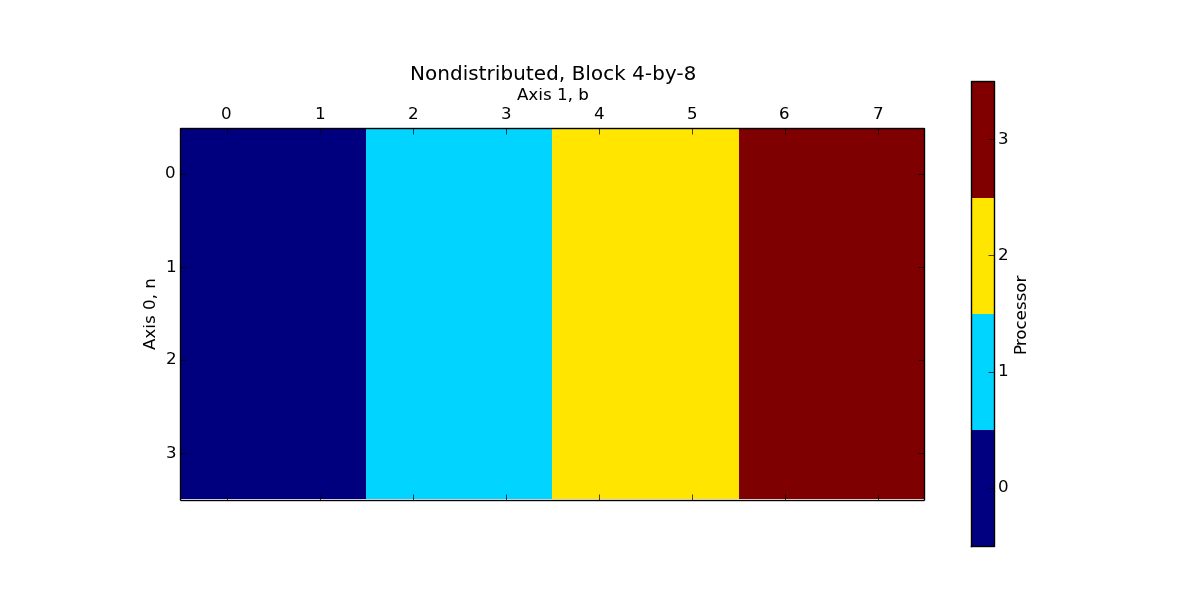
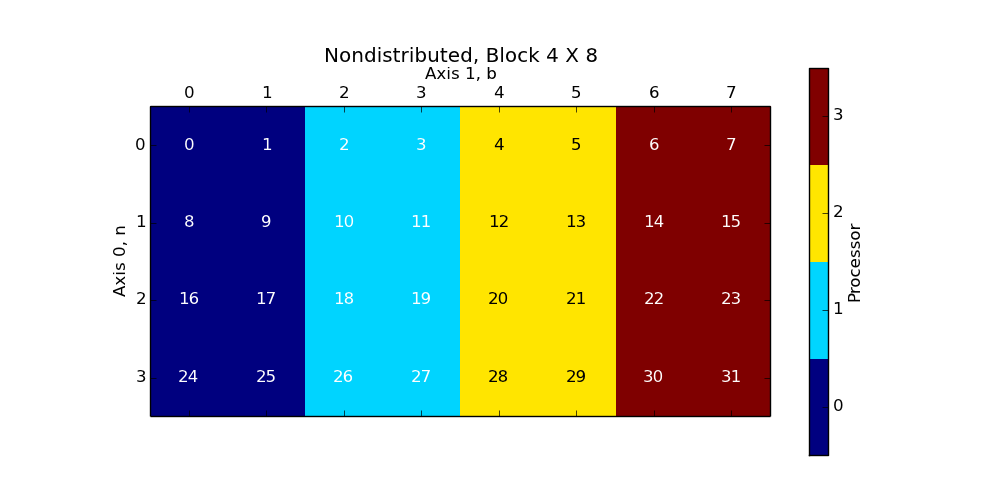
Plot tweaks.

diff --git a/examples.rst b/examples.rst
@@ -4,7 +4,7 @@ Automatically Generated Examples
 Block, Nondistributed
 `````````````````````
 
-4 X 8 array, Block, Nondistributed distribution, distributed over 4 process grid.
+4 X 8 array, Block, Nondistributed distribution, over 1 X 4 process grid.
 
 Some description of Block, Nondistributed.
 
@@ -17,14 +17,6 @@ array([[  0.,   1.,   2.,   3.,   4.,   5.,   6.,   7.],
        [  8.,   9.,  10.,  11.,  12.,  13.,  14.,  15.],
        [ 16.,  17.,  18.,  19.,  20.,  21.,  22.,  23.],
        [ 24.,  25.,  26.,  27.,  28.,  29.,  30.,  31.]])
-
-get_localarrays():
-
->>> get_localarrays()
-[[[ 0.  1.  2.  3.  4.  5.  6.  7.]],
- [[  8.   9.  10.  11.  12.  13.  14.  15.]],
- [[ 16.  17.  18.  19.  20.  21.  22.  23.]],
- [[ 24.  25.  26.  27.  28.  29.  30.  31.]]]
 
 In all processes:
 
@@ -89,7 +81,7 @@ array([[ 24.,  25.,  26.,  27.,  28.,  29.,  30.,  31.]])
 Nondistributed, Block
 `````````````````````
 
-4 X 8 array, Nondistributed, Block distribution, distributed over 4 process grid.
+4 X 8 array, Nondistributed, Block distribution, over 1 X 4 process grid.
 
 .. image:: ../images/plot_nondist_block.png
 
@@ -100,26 +92,6 @@ array([[  0.,   1.,   2.,   3.,   4.,   5.,   6.,   7.],
        [  8.,   9.,  10.,  11.,  12.,  13.,  14.,  15.],
        [ 16.,  17.,  18.,  19.,  20.,  21.,  22.,  23.],
        [ 24.,  25.,  26.,  27.,  28.,  29.,  30.,  31.]])
-
-get_localarrays():
-
->>> get_localarrays()
-[[[  0.   1.]
- [  8.   9.]
- [ 16.  17.]
- [ 24.  25.]],
- [[  2.   3.]
- [ 10.  11.]
- [ 18.  19.]
- [ 26.  27.]],
- [[  4.   5.]
- [ 12.  13.]
- [ 20.  21.]
- [ 28.  29.]],
- [[  6.   7.]
- [ 14.  15.]
- [ 22.  23.]
- [ 30.  31.]]]
 
 In all processes:
 
@@ -196,7 +168,7 @@ array([[  6.,   7.],
 Block, Block
 ````````````
 
-4 X 8 array, Block, Block distribution, distributed over 2 X 2 process grid.
+4 X 8 array, Block, Block distribution, over 2 X 2 process grid.
 
 .. image:: ../images/plot_block_block.png
 
@@ -207,18 +179,6 @@ array([[  0.,   1.,   2.,   3.,   4.,   5.,   6.,   7.],
        [  8.,   9.,  10.,  11.,  12.,  13.,  14.,  15.],
        [ 16.,  17.,  18.,  19.,  20.,  21.,  22.,  23.],
        [ 24.,  25.,  26.,  27.,  28.,  29.,  30.,  31.]])
-
-get_localarrays():
-
->>> get_localarrays()
-[[[  0.   1.   2.   3.]
- [  8.   9.  10.  11.]],
- [[  4.   5.   6.   7.]
- [ 12.  13.  14.  15.]],
- [[ 16.  17.  18.  19.]
- [ 24.  25.  26.  27.]],
- [[ 20.  21.  22.  23.]
- [ 28.  29.  30.  31.]]]
 
 In all processes:
 
@@ -307,7 +267,7 @@ array([[ 20.,  21.,  22.,  23.],
 Block, Cyclic
 `````````````
 
-4 X 8 array, Block, Cyclic distribution, distributed over 2 X 2 process grid.
+4 X 8 array, Block, Cyclic distribution, over 2 X 2 process grid.
 
 .. image:: ../images/plot_block_cyclic.png
 
@@ -318,18 +278,6 @@ array([[  0.,   1.,   2.,   3.,   4.,   5.,   6.,   7.],
        [  8.,   9.,  10.,  11.,  12.,  13.,  14.,  15.],
        [ 16.,  17.,  18.,  19.,  20.,  21.,  22.,  23.],
        [ 24.,  25.,  26.,  27.,  28.,  29.,  30.,  31.]])
-
-get_localarrays():
-
->>> get_localarrays()
-[[[  0.   2.   4.   6.]
- [  8.  10.  12.  14.]],
- [[  1.   3.   5.   7.]
- [  9.  11.  13.  15.]],
- [[ 16.  18.  20.  22.]
- [ 24.  26.  28.  30.]],
- [[ 17.  19.  21.  23.]
- [ 25.  27.  29.  31.]]]
 
 In all processes:
 
@@ -418,7 +366,7 @@ array([[ 17.,  19.,  21.,  23.],
 Cyclic, Cyclic
 ``````````````
 
-4 X 8 array, Cyclic, Cyclic distribution, distributed over 2 X 2 process grid.
+4 X 8 array, Cyclic, Cyclic distribution, over 2 X 2 process grid.
 
 .. image:: ../images/plot_cyclic_cyclic.png
 
@@ -429,18 +377,6 @@ array([[  0.,   1.,   2.,   3.,   4.,   5.,   6.,   7.],
        [  8.,   9.,  10.,  11.,  12.,  13.,  14.,  15.],
        [ 16.,  17.,  18.,  19.,  20.,  21.,  22.,  23.],
        [ 24.,  25.,  26.,  27.,  28.,  29.,  30.,  31.]])
-
-get_localarrays():
-
->>> get_localarrays()
-[[[  0.   2.   4.   6.]
- [ 16.  18.  20.  22.]],
- [[  1.   3.   5.   7.]
- [ 17.  19.  21.  23.]],
- [[  8.  10.  12.  14.]
- [ 24.  26.  28.  30.]],
- [[  9.  11.  13.  15.]
- [ 25.  27.  29.  31.]]]
 
 In all processes:
 
@@ -526,10 +462,10 @@ array([[  9.,  11.,  13.,  15.],
   'size': 8,
   'start': 1})
 
-BlockCyclic[2], BlockCyclic[2]
-``````````````````````````````
+BlockCyclic, BlockCyclic
+````````````````````````
 
-4 X 8 array, BlockCyclic[2], BlockCyclic[2] distribution, distributed over 2 X 2 process grid.
+4 X 8 array, BlockCyclic, BlockCyclic distribution, over 2 X 2 process grid.
 
 .. image:: ../images/plot_blockcyclic_blockcyclic.png
 
@@ -540,18 +476,6 @@ array([[  0.,   1.,   2.,   3.,   4.,   5.,   6.,   7.],
        [  8.,   9.,  10.,  11.,  12.,  13.,  14.,  15.],
        [ 16.,  17.,  18.,  19.,  20.,  21.,  22.,  23.],
        [ 24.,  25.,  26.,  27.,  28.,  29.,  30.,  31.]])
-
-get_localarrays():
-
->>> get_localarrays()
-[[[  0.   1.   4.   5.]
- [  8.   9.  12.  13.]],
- [[  2.   3.   6.   7.]
- [ 10.  11.  14.  15.]],
- [[ 16.  17.  20.  21.]
- [ 24.  25.  28.  29.]],
- [[ 18.  19.  22.  23.]
- [ 26.  27.  30.  31.]]]
 
 In all processes:
 
@@ -636,4 +560,144 @@ array([[ 18.,  19.,  22.,  23.],
   'proc_grid_size': 2,
   'size': 8,
   'start': 2})
+
+Unstructured
+````````````
+
+1 X 40 array, Unstructured distribution, over 1 X 4 process grid.
+
+.. image:: ../images/plot_unstructured.png
+
+The full (undistributed) array:
+
+>>> full_array
+array([  0.,   1.,   2.,   3.,   4.,   5.,   6.,   7.,   8.,   9.,  10.,
+        11.,  12.,  13.,  14.,  15.,  16.,  17.,  18.,  19.,  20.,  21.,
+        22.,  23.,  24.,  25.,  26.,  27.,  28.,  29.,  30.,  31.,  32.,
+        33.,  34.,  35.,  36.,  37.,  38.,  39.])
+
+In all processes:
+
+>>> distbuffer = local_array.__distarray__()
+>>> distbuffer.keys()
+['buffer', 'dim_data', '__version__']
+>>> distbuffer['__version__']
+'1.0.0'
+
+In process 0:
+
+>>> distbuffer['buffer']
+array([ 29.,  38.,  18.,  19.,  11.,  33.,  10.,   1.,  22.,  25.])
+>>> distbuffer['dim_data']
+({'dist_type': 'u',
+  'indices': [29, 38, 18, 19, 11, 33, 10, 1, 22, 25],
+  'proc_grid_rank': 0,
+  'proc_grid_size': 4,
+  'size': 40},)
+
+In process 1:
+
+>>> distbuffer['buffer']
+array([  5.,  15.,  34.,  12.,  16.,  24.,  23.,  39.,   6.,  36.])
+>>> distbuffer['dim_data']
+({'dist_type': 'u',
+  'indices': [5, 15, 34, 12, 16, 24, 23, 39, 6, 36],
+  'proc_grid_rank': 1,
+  'proc_grid_size': 4,
+  'size': 40},)
+
+In process 2:
+
+>>> distbuffer['buffer']
+array([  0.,   7.,  27.,   4.,  32.,  37.,  21.,  26.,   9.,  17.])
+>>> distbuffer['dim_data']
+({'dist_type': 'u',
+  'indices': [0, 7, 27, 4, 32, 37, 21, 26, 9, 17],
+  'proc_grid_rank': 2,
+  'proc_grid_size': 4,
+  'size': 40},)
+
+In process 3:
+
+>>> distbuffer['buffer']
+array([ 35.,  14.,  20.,  13.,   3.,  30.,   2.,   8.,  28.,  31.])
+>>> distbuffer['dim_data']
+({'dist_type': 'u',
+  'indices': [35, 14, 20, 13, 3, 30, 2, 8, 28, 31],
+  'proc_grid_rank': 3,
+  'proc_grid_size': 4,
+  'size': 40},)
+
+Padded
+``````
+
+1 X 20 array, Padded distribution, over 1 X 4 process grid.
+
+.. image:: ../images/plot_padded.png
+
+The full (undistributed) array:
+
+>>> full_array
+array([  0.,   1.,   2.,   3.,   4.,   5.,   6.,   7.,   8.,   9.,  10.,
+        11.,  12.,  13.,  14.,  15.,  16.,  17.,  18.,  19.])
+
+In all processes:
+
+>>> distbuffer = local_array.__distarray__()
+>>> distbuffer.keys()
+['buffer', 'dim_data', '__version__']
+>>> distbuffer['__version__']
+'1.0.0'
+
+In process 0:
+
+>>> distbuffer['buffer']
+array([ 0.,  1.,  2.,  3.,  4.])
+>>> distbuffer['dim_data']
+({'dist_type': 'b',
+  'padding': (1, 1),
+  'proc_grid_rank': 0,
+  'proc_grid_size': 4,
+  'size': 20,
+  'start': 0,
+  'stop': 5},)
+
+In process 1:
+
+>>> distbuffer['buffer']
+array([ 5.,  6.,  7.,  8.,  9.])
+>>> distbuffer['dim_data']
+({'dist_type': 'b',
+  'padding': (1, 1),
+  'proc_grid_rank': 1,
+  'proc_grid_size': 4,
+  'size': 20,
+  'start': 5,
+  'stop': 10},)
+
+In process 2:
+
+>>> distbuffer['buffer']
+array([ 10.,  11.,  12.,  13.,  14.])
+>>> distbuffer['dim_data']
+({'dist_type': 'b',
+  'padding': (1, 1),
+  'proc_grid_rank': 2,
+  'proc_grid_size': 4,
+  'size': 20,
+  'start': 10,
+  'stop': 15},)
+
+In process 3:
+
+>>> distbuffer['buffer']
+array([ 15.,  16.,  17.,  18.,  19.])
+>>> distbuffer['dim_data']
+({'dist_type': 'b',
+  'padding': (1, 1),
+  'proc_grid_rank': 3,
+  'proc_grid_size': 4,
+  'size': 20,
+  'start': 15,
+  'stop': 20},)
 
